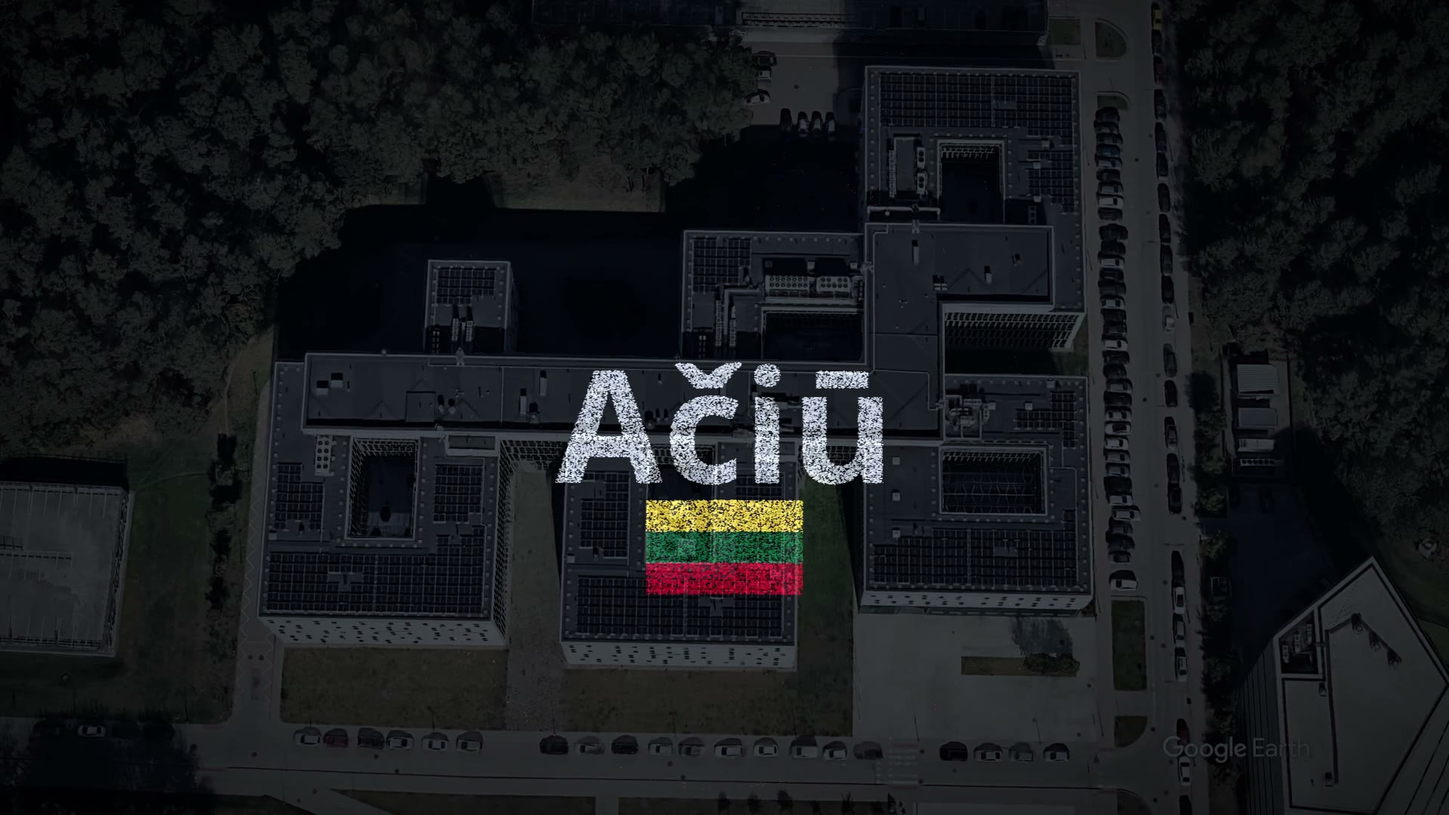
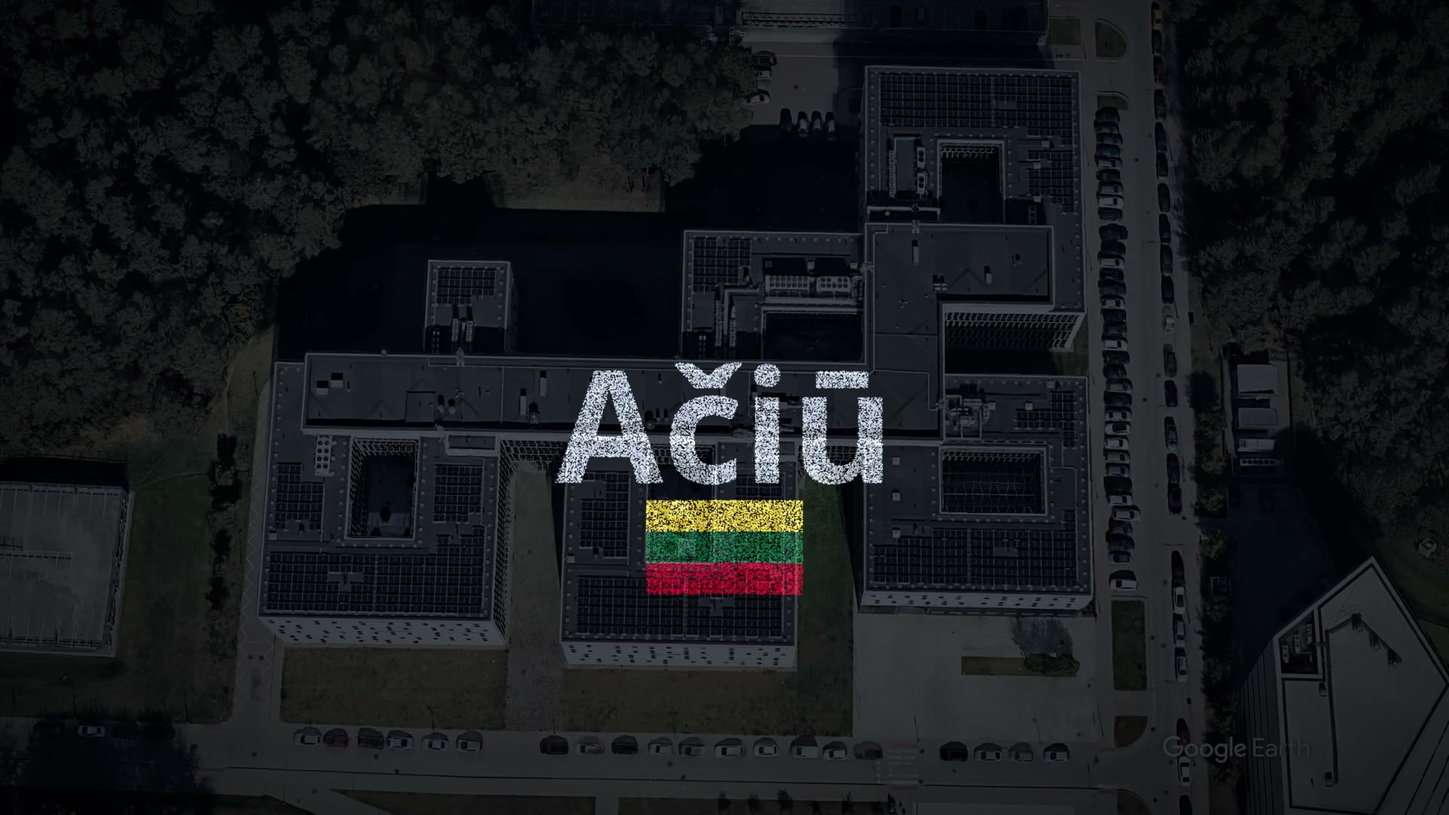
feat(innoday): the flight home: the close re-recorded at 4K (finer grains), the map away into the Earth, down into Vilnius on the opener's own flight backwards, „Ačiū“ over NFTMC on Starfire's peak (95.5 s)
Owner, 22 Oct: "shouldn't there be world zooming out and so on to Vilnius? Also, for the video
could we get better resolved sharper pointcloud?". Not deployed: waits for the owner's yes.

Claude-Session: https://claude.ai/code/session_01LomYF1saeBXf9UwwiHvwyK

Changed region(s): [[0.375, 0.4278, 0.625, 0.7333]]

diff --git a/talks/2026_10_23_Innoday/hero/bookend.py b/talks/2026_10_23_Innoday/hero/bookend.py
@@ -1,13 +1,24 @@
-"""The close's bookend: the recorded close (take) up to the ring, then a dissolve into NFTMC
-from above (the opener's first frame, graded to the deck's black ground) with the take's
-„Ačiū“ collision lifted off the map (frame minus the still ring) and added over it.
+"""The close's flight home (slide 30, close_home.mp4): the recorded close up to the
+accelerator map, then out to the whole Earth and down into Vilnius (the opener's own
+flight, nftmc_zoom_web.mp4, run backwards), landing on NFTMC from above, where the take's
+„Ačiū“ collision, lifted off the map, crosses on Starfire's peak.
 
-  python talks/2026_10_23_Innoday/hero/bookend.py TAKE BG OUT [--stills DIR --at t1,t2,...]
+  python talks/2026_10_23_Innoday/hero/bookend.py TAKE OPENER OUT [--stills DIR --at t1,t2,...]
 
-TAKE: the slide-30 take (slidev-stage-record, 1080p50, the live close at 22efcef); BG: the first
-frame of public/videos/nftmc_zoom_web.mp4 (ffmpeg -i … -frames:v 1 nftmc0.png). Owner, 22 Oct,
+TAKE: the slide-30 take of the live close at 22efcef (slidev-stage-record, 50 fps; recorded at
+3840×2160 and taken down to 1920×1080 here, so the grains are finer, owner: "could we get
+better resolved sharper pointcloud?"). OPENER: public/videos/nftmc_zoom_web.mp4. Owner, 22 Oct,
 on the Scheduler's proposal (the title promises „…ir atgal“; the close ended on the LHC ring):
-"Go ahead and do it".
+"Go ahead and do it"; on the first cut (a fade): "shouldn't there be world zooming out and so
+on to Vilnius?".
+
+Times (s of the clip; the music is the slide's <Soundtrack>, its `drop` on V_HIT):
+  0-57      the take: the module, LHCb at eye level, the pull-out to the LHC and the FCC
+  57.4-64   the map flies away to a point (Geneva) as the whole Earth comes up round it
+  64-92.2   down into Vilnius: the opener's first EARTH_T s backwards, landing on NFTMC; the
+            picture settles to the deck's dark ground over the last seconds
+  92.2-107  the take's „Ačiū“ collision over Vilnius (its bunches from 92.2, the crossing on
+            V_HIT, Starfire's 2:54.85 downbeat), the word and the flag, held
 """
 import argparse, subprocess, sys
 import numpy as np
@@ -15,101 +26,191 @@ from PIL import Image
 from scipy.ndimage import maximum_filter, gaussian_filter
 
 W, H, FPS = 1920, 1080, 50
-T_PLATE = 57.6          # the ring, still, before the word's collision (camera stops ~57.0)
-T_D0, T_D1 = 57.4, 59.2  # the dissolve ring -> Vilnius
-KNEE = 4.0              # the layer's noise floor (8-bit levels, per channel)
+T_STILL = (56.95, 57.95)   # the take: the camera stands still over the map
+T_CROSS = 61.2             # the take: the word's collision crosses
+V_HIT = 95.5               # the clip: the crossing, on Starfire's peak (the music's 2:54.85, the slide's tail file 0.35 s ahead of the clip)
+SHIFT = V_HIT - T_CROSS    # the take's word, later in the clip
+V_OUT0, V_OUT1 = 57.4, 64.0   # the map away, the Earth up
+V_LAND = V_HIT - (T_CROSS - T_STILL[1])   # NFTMC reached as the word's bunches come in
+KNEE = 4.0
 
 ap = argparse.ArgumentParser()
-ap.add_argument('take'); ap.add_argument('bg'); ap.add_argument('out')
+ap.add_argument('take'); ap.add_argument('opener'); ap.add_argument('out')
+ap.add_argument('--dive-span', type=float, default=56.0)   # the dive file: the opener's first this many s, backwards
+ap.add_argument('--dive', required=True)   # the opener's first EARTH_T s backwards, 60 fps (dive.sh: 4 s pieces through ffmpeg's reverse)
 ap.add_argument('--stills', default=''); ap.add_argument('--at', default='')
-ap.add_argument('--gain', type=float, default=0.30)   # the photo's exposure
+ap.add_argument('--earth-t', type=float, default=47.0)   # the opener: the Earth's lit limb filling the frame's left (from ~56 s a red galaxy band crosses it; the whole disk, ~64 s, is a dark crescent)
+ap.add_argument('--geneva', default='0.22,0.52')   # where the map goes down in that frame (shares of width, height): the lit side's middle (no coastline reads there)
+ap.add_argument('--gain', type=float, default=0.30)
 ap.add_argument('--sat', type=float, default=0.55)
 x = ap.parse_args()
+EARTH_T = x.earth_t
+GX, GY = (float(v) for v in x.geneva.split(','))
 
 
-def frames(t0, t1=None):
-    args = ['ffmpeg', '-v', 'error', '-ss', f'{t0:.3f}', '-i', x.take]
+def reader(path, t0, t1=None, fps=None):
+    args = ['ffmpeg', '-v', 'error', '-ss', f'{t0:.3f}', '-i', path]
     if t1 is not None: args += ['-t', f'{t1 - t0:.3f}']
-    args += ['-f', 'rawvideo', '-pix_fmt', 'rgb24', '-']
-    p = subprocess.Popen(args, stdout=subprocess.PIPE, bufsize=W * H * 3 * 4)
+    vf = [f'scale={W}:{H}:flags=lanczos'] + ([f'fps={fps}'] if fps else [])
+    args += ['-vf', ','.join(vf), '-f', 'rawvideo', '-pix_fmt', 'rgb24', '-']
+    p = subprocess.Popen(args, stdout=subprocess.PIPE, stderr=subprocess.DEVNULL, bufsize=W * H * 3 * 4)
     n = W * H * 3
-    while True:
-        b = p.stdout.read(n)
-        if len(b) < n: break
-        yield np.frombuffer(b, np.uint8).reshape(H, W, 3)
-    p.wait()
+    try:
+        while True:
+            b = p.stdout.read(n)
+            if len(b) < n: break
+            yield np.frombuffer(b, np.uint8).reshape(H, W, 3)
+    finally:
+        p.kill()
 
 
-def one(t):
-    return next(frames(t)).astype(np.float32)
-
-
-# the graded photo: darker, less colour, a cool cast, a vignette toward the deck's black
-bg = np.asarray(Image.open(x.bg).convert('RGB').resize((W, H), Image.LANCZOS)).astype(np.float32) / 255
-lum = bg @ np.array([0.2126, 0.7152, 0.0722], np.float32)
-bg = lum[..., None] + (bg - lum[..., None]) * x.sat
-bg = bg ** 1.25 * x.gain * np.array([0.92, 0.98, 1.08], np.float32)
-yy, xx = np.mgrid[0:H, 0:W].astype(np.float32)
-r = np.hypot((xx - W / 2) / (W / 2), (yy - H / 2) / (H / 2))
-bg *= (1 - 0.55 * np.clip((r - 0.45) / 0.9, 0, 1) ** 1.6)[..., None]
-bg = bg * 255
-
-# the ring, still, without what moves over it (the beams, the word's bunches arriving): each
-# pixel's least over the second the camera stands still
-plate = None
-for f in frames(56.95, 57.95):
-    plate = f.astype(np.float32) if plate is None else np.minimum(plate, f)
-# the beams round the LHC ring (the top of the frame, x 700-985, y 20-335: never where the word
-# and the flag form, y 476 on): masked, wherever they ran in the still second or the hold
-def spread(t0, t1):
-    lo = hi = None
-    for f in frames(t0, t1):
-        g = f.astype(np.int16).sum(2)
-        lo = g if lo is None else np.minimum(lo, g); hi = g if hi is None else np.maximum(hi, g)
-    return hi - lo
-# what the map's own animation adds over the still in that second (the dashed rings' flow,
-# twinkles), a little spread: taken off the layer too, so no dash of the old map survives
-floor = None
-for f in frames(56.95, 57.95):
-    r = f.astype(np.float32) - plate
-    floor = r if floor is None else np.maximum(floor, r)
-floor = maximum_filter(floor, size=(3, 3, 1)) * 1.5
-box = np.zeros((H, W), bool); box[10:345, 680:995] = True
-moving = (np.maximum(spread(56.9, 57.95), spread(69.6, 72.9)) > 36) & box
-mask = maximum_filter(moving, size=11)
-keep = 1 - gaussian_filter(mask.astype(np.float32), 2.0)
-print(f'masked {mask.mean() * 100:.2f} % of the frame', file=sys.stderr)
+def one(path, t):
+    return next(reader(path, t)).astype(np.float32)
 
 
 def smooth(a, b, t):
     s = np.clip((t - a) / (b - a), 0, 1); return s * s * (3 - 2 * s)
 
 
-def compose(f, t):
-    f = f.astype(np.float32)
-    if t < T_D0: return f
-    layer = np.clip(f - plate - floor - KNEE, 0, None) * keep[..., None]
-    a = smooth(T_D0, T_D1, t)
-    out = (1 - a) * f + a * (bg + layer)
-    return out
+# the deck's dark ground: the photo darker, less colour, a cool cast, a vignette
+yy, xx = np.mgrid[0:H, 0:W].astype(np.float32)
+# the map's edges feathered, so it shrinks away without a frame round it
+feather = (smooth(0.0, 0.14, np.minimum(xx / W, 1 - xx / W)) * smooth(0.0, 0.14, np.minimum(yy / H, 1 - yy / H)))[..., None]
+vign = (1 - 0.55 * np.clip((np.hypot((xx - W / 2) / (W / 2), (yy - H / 2) / (H / 2)) - 0.45) / 0.9, 0, 1) ** 1.6)[..., None]
+def grade(img, k):
+    if k <= 0: return img
+    f = img / 255
+    lum = f @ np.array([0.2126, 0.7152, 0.0722], np.float32)
+    g = lum[..., None] + (f - lum[..., None]) * x.sat
+    g = g ** 1.25 * x.gain * np.array([0.92, 0.98, 1.08], np.float32) * vign
+    return (1 - k) * img + k * g * 255
 
+
+# the map, still, without what moves over it: each pixel's least over the still second
+plate = None
+for f in reader(x.take, *T_STILL):
+    plate = f.astype(np.float32) if plate is None else np.minimum(plate, f)
+floor = None
+for f in reader(x.take, *T_STILL):
+    r = f.astype(np.float32) - plate
+    floor = r if floor is None else np.maximum(floor, r)
+floor = maximum_filter(floor, size=(3, 3, 1)) * 1.5
+# … except where the word's two bunches already flicker in that second (the frame's middle): a
+# floor there wiped them, two black holes in the glow over the campus
+floor[420:760, 760:1180] = np.minimum(floor[420:760, 760:1180], 12.0)
+def spread(t0, t1):
+    lo = hi = None
+    for f in reader(x.take, t0, t1):
+        g = f.astype(np.int16).sum(2)
+        lo = g if lo is None else np.minimum(lo, g); hi = g if hi is None else np.maximum(hi, g)
+    return hi - lo
+box = np.zeros((H, W), bool); box[10:345, 680:995] = True   # the LHC's beams (never where the word forms)
+mask = maximum_filter((np.maximum(spread(56.9, 57.95), spread(69.6, 72.9)) > 36) & box, size=11)
+keep = (1 - gaussian_filter(mask.astype(np.float32), 2.0))[..., None]
+
+
+def layer_of(f, t=None):
+    L = np.clip(f - plate - floor - KNEE, 0, None) * keep
+    return L
+
+
+def zoomed(img, s, cx, cy):
+    """img scaled by s about (cx, cy) (shares of the frame), that point kept in place; black outside."""
+    im = Image.fromarray(np.clip(img, 0, 255).astype(np.uint8))
+    w, h = max(1, int(round(W * s))), max(1, int(round(H * s)))
+    small = im.resize((w, h), Image.LANCZOS if s < 1 else Image.BICUBIC)
+    out = Image.new('RGB', (W, H))
+    out.paste(small, (int(round(cx * W - cx * w)), int(round(cy * H - cy * h))))
+    return np.asarray(out).astype(np.float32)
+
+
+earth = one(x.opener, EARTH_T)
+nftmc = one(x.opener, 0.0)
+# the dive: read forward through the reversed opener, frame by frame as the clip needs them
+class Dive:
+    def __init__(self): self.it, self.k, self.f = None, -1, None
+    def at(self, r):
+        want = max(0, int(round(r * 60)))
+        if x.stills: return one(x.dive, want / 60)
+        if self.it is None or want < self.k: self.it, self.k = reader(x.dive, 0), -1
+        while self.k < want:
+            nxt = next(self.it, None)
+            if nxt is None: break
+            self.f, self.k = nxt, self.k + 1
+        return self.f.astype(np.float32)
+dive = Dive()
+
+
+def dive_t(V):
+    u = np.clip((V - V_OUT1) / (V_LAND - V_OUT1), 0, 1)
+    # leave the Earth gently, run, and slow into the campus (the opener eases out of it too)
+    e = u * u * (3 - 2 * u) * 0.35 + u * 0.65
+    return EARTH_T * (1 - e)
+
+
+def compose(V, take_frame):
+    if V < V_OUT0:
+        return take_frame
+    if V < V_OUT1:
+        # the map (its word taken out) flies away into Geneva as the Earth comes up round it
+        f = take_frame
+        m = f - layer_of(f) if take_frame is not None else plate
+        a = smooth(V_OUT0, V_OUT1, V)
+        s_map = np.exp(np.log(0.02) * a)          # 1 -> 1/50, in log distance
+        s_earth = np.exp(np.log(6.0) * (1 - a))   # 6x -> 1, about Geneva
+        mp = zoomed(m * feather, s_map, GX, GY)
+        ea = zoomed(earth, s_earth, GX, GY)
+        fade = smooth(0.0, 0.55, a)
+        return mp * (1 - fade) + ea * fade
+    if V < V_LAND:
+        img = dive.at(x.dive_span - dive_t(V))
+        return grade(img, smooth(V_LAND - 5.0, V_LAND, V))
+    # landed: NFTMC, dark, and the take's word over it
+    base = grade(nftmc, 1.0)
+    t = V - SHIFT
+    if t > 73 - 1 / FPS: t = 73 - 1 / FPS
+    return base + layer_of(take_at(t), t)
+
+
+class Seq:
+    """a video read forward, frame by frame, at FPS"""
+    def __init__(self, path): self.path, self.it, self.k, self.f = path, None, -1, None
+    def at(self, t):
+        want = int(round(t * FPS))
+        if x.stills: return one(self.path, want / FPS)
+        if self.it is None or want < self.k: self.it, self.k = reader(self.path, want / FPS), want - 1
+        while self.k < want:
+            nxt = next(self.it, None)
+            if nxt is None: break
+            self.f, self.k = nxt, self.k + 1
+        return self.f.astype(np.float32)
+word_take = Seq(x.take)
+take_at = word_take.at
+
+
+V_END = 73 - 1 / FPS + SHIFT + 3.0   # the word held 3 s past the take's end
 
 if x.stills:
     import os
     os.makedirs(x.stills, exist_ok=True)
     for s in x.at.split(','):
-        t = float(s)
-        Image.fromarray(np.clip(compose(one(t), t), 0, 255).astype(np.uint8)).save(f'{x.stills}/t{t:05.2f}.png')
-    Image.fromarray(np.clip(bg, 0, 255).astype(np.uint8)).save(f'{x.stills}/bg.png')
-    Image.fromarray((mask * 255).astype(np.uint8)).save(f'{x.stills}/mask.png')
+        V = float(s)
+        tf = take_at(V) if V < 73 else None
+        Image.fromarray(np.clip(compose(V, tf), 0, 255).astype(np.uint8)).save(f'{x.stills}/v{V:06.2f}.png')
     sys.exit(0)
 
 enc = subprocess.Popen(['ffmpeg', '-v', 'error', '-y', '-f', 'rawvideo', '-pix_fmt', 'rgb24', '-s', f'{W}x{H}', '-r', str(FPS), '-i', '-',
                         '-c:v', 'libx264', '-preset', 'slow', '-crf', '17', '-maxrate', '10M', '-bufsize', '20M', '-g', '50',
                         '-pix_fmt', 'yuv420p', '-colorspace', 'bt709', '-color_primaries', 'bt709', '-color_trc', 'bt709',
                         '-movflags', '+faststart', '-an', x.out], stdin=subprocess.PIPE)
-for i, f in enumerate(frames(0)):
-    t = i / FPS
-    enc.stdin.write(np.clip(compose(f, t), 0, 255).astype(np.uint8).tobytes() if t >= T_D0 else f.tobytes())
+take = reader(x.take, 0)
+n = int(round(V_END * FPS))
+for i in range(n):
+    V = i / FPS
+    tf = next(take, None) if V < 73 else None
+    if tf is not None and V < V_OUT0:
+        enc.stdin.write(tf.tobytes()); continue
+    out = compose(V, tf.astype(np.float32) if tf is not None else None)
+    enc.stdin.write(np.clip(out, 0, 255).astype(np.uint8).tobytes())
 enc.stdin.close(); enc.wait()
-print('frames', i + 1, file=sys.stderr)
+print('frames', n, file=sys.stderr)

diff --git a/talks/2026_10_23_Innoday/deck.md b/talks/2026_10_23_Innoday/deck.md
@@ -696,12 +696,12 @@ space: { at: [9.54, -482.702, 0.96], dist: 2.236, yaw: -90.0, pitch: -29.74, dim
      world went on drawing under the whole recording (owner, 22 Oct: "MacPro M2 can't quite handle the final slide") -->
 <VideoPlayer src="close_home.mp4" muted :controls="false" transition="fade" />
 <Grains :set="{ det: 0, lhcbLogo: 0, ltMap: 0 }" />
-<Soundtrack :level="0.3" resync keys :drop="{ at: 61.2, file: 'audio/starfire_close_peak.m4a', hit: 2.013, duck: 58.4, quiet: 0.06 }" />
+<Soundtrack :level="0.3" resync keys :drop="{ at: 95.5, file: 'audio/starfire_close_peak.m4a', hit: 2.013, duck: 92.7, quiet: 0.06 }" />
 
 <!-- facts: lhcb-detector-size, lhcb-hlt1-30mhz, lhcb-trigger-5tbs-10gbs, cern-lhc-size-cost, cern-fcc-study -->
 
 <!--
-Kalbėtojui. Ši skaidrė dabar — įrašas (close_home.mp4, 1080p50; savininkas, 2026 10 22: kad nestrigtų), muzika lieka gyva, + ir − keičia jos garsumą; klavišas P sustabdo ir vėl paleidžia įrašą. Klipo paskutinis kadras (vėliava ant apatinės šaltosios dėžės, SciFi apačioje) virsta grūdeliais, ir kamera atsitraukia iš modulio galo į visą LHCb detektorių — taškų debesį pagal tikrąją geometriją (savininkas, 2026 10 21: „let's get back to point cloud“); išgraviruota vėliava kartu su modulio vaizdu, kuriame ji yra, lieka ten, kur LHCb sekiklyje iš tikrųjų stovi tas SciFi modulis (apatinė šaltoji dėžė), modulio padėtimi, ir kamerai tolstant mažėja iki tikrojo detektoriaus mastelio (~15 s), kol tampa mažyčiu ženklu; iš šono ji matoma kampu (savininkas, 2026 10 21: „the inscribed flag (on one of the SciFi mats) along with the mat itself moves to a position where scifi is. and reduces in size accordingly (because it's far away)“). Kamera nusileidžia iki kalbėtojo akių aukščio (1,71 m) ir žiūri į detektorių iš šono: LHCb užpildo kadrą nuo krašto iki krašto, visi 21 m (savininkas, 2026 10 22: „first zoom out untill you reach the eye level, so lhcb is full frame side to side“); arčiau kameros, dešinėje, stovi žmogus mastui (1,83 m, toks pat taškų debesis). Kamerai nusileidus, kartu su muzikos kulminacija (~18 s), susidūrimo taške susikerta tikro LHCb susidūrimo protonų paketai (savininkas: „LHCb collision within lhcb“): laikas beveik sustoja, tada susidūrime gimusios dalelės lekia per detektorių, ir kiekviena jo dalis sušvinta, kai jos ją pasiekia. Paskui kamera lėtai traukiasi atgal, vis dar akių aukštyje (~18–36 s), o susidūrimai kartojasi vis dažniau, kol jų blyksniai susilieja ir detektorius ima švytėti tolygiai (savininkas, 2026 10 20: „40 million collisions a second“; 2026 10 22: „then slowly move out until the beams run at full speed, only then zoom out to lhc fcc“): ryšuliai LHCb susikerta 40 mln. kartų per sekundę, ir visas detektorius nuskaitomas kiekvieną kartą. Tada be sustojimo, lėtai (~36–57 kelio s, apie pusę minutės; savininkas, 2026 10 22: „The zoomout to FCC should be slow and continuous“) kamera traukiasi toliau ir kyla, kol žiūri tiesiai žemyn, šiaurė viršuje (savininkas, 2026 10 22, su CERN FCC žemėlapiu: „For the last one, can you use something like this?“): LHCb kartu su vėliava susitraukia į tašką, ir aplink jį išnyra žemėlapis tikrosiomis proporcijomis: LHC žiedas (26,7 km) su dviem priešpriešiais skriejančiais pluoštais (žydru ir baltu); SPS, PS ir pernešimo linijų nėra (savininkas, 2026 10 22: „the inner ring of the lhc doesn't make sense... don't show it“); oranžiniu punktyru — siūlomas FCC žiedas (90,7 km) per savo aštuonias antžemines vietas, Ženevos ežeras, Prancūzijos ir Šveicarijos siena, Rona, Jura ir Salève; logotipas pakyla į kadro viršų, o maža Lietuvos vėliava nuo SciFi vietos atkeliauja prie LHCb taško žemėlapyje, tiesiai po LHC žiedu, ir lieka ten iki galo (savininkas, 2026 10 22: „Still need lithuanian flag on 30“; 2026 10 21: „can show the accelerator as well, so this doesn't look isolated, it's a part of huge infrastructure“; „still want to see LHC, FCC, and 2 beams circulating“). Kamerai sustojus (~57 s), žemėlapis ištirpsta į NFTMC Saulėtekyje iš viršaus — tą patį vaizdą, kuriuo pranešimas prasidėjo („…ir atgal“; savininkas, 2026 10 22: „Go ahead and do it“). Muzika trumpam beveik nutyla, ir ties jos kulminacija (~61 s; „Starfire“ 2:54,85, išmatuota garso faile) virš Vilniaus susiduria protonų paketai, o iš susidūrimo išlėkusios dalelės vingiuotomis trajektorijomis sugula į „Ačiū“, po juo — į Lietuvos vėliavą (savininkas, 2026 10 22: „aciu should appear out of particle collision“; „Also Lithuanian flag should appear with aciu“). LHCb vieta LHC žiede (8-asis taškas) pažymėta šviesiu tašku. Pavadinimų ekrane nėra: žiedus įvardyti žodžiu, kol jie ekrane (~45–58 s) (viršuje kairėje mažesnis — LHC, didysis oranžinis punktyrinis — FCC; ežeras — į dešinę nuo LHC). LHCb ir kompleksas nupiešti skirtingu masteliu (LHCb ilgis 21 m): kompleksas rodo, kur LHCb stovi. Per klausimus lieka Vilnius su „Ačiū“ ir vėliava (paskutinis įrašo kadras). Muzika po minutės pati nutyla.
+Kalbėtojui. Ši skaidrė dabar — įrašas (close_home.mp4, 1080p50, ~1 min 50 s; savininkas, 2026 10 22: kad nestrigtų), muzika lieka gyva, + ir − keičia jos garsumą; klavišas P sustabdo ir vėl paleidžia įrašą. Klipo paskutinis kadras (vėliava ant apatinės šaltosios dėžės, SciFi apačioje) virsta grūdeliais, ir kamera atsitraukia iš modulio galo į visą LHCb detektorių — taškų debesį pagal tikrąją geometriją (savininkas, 2026 10 21: „let's get back to point cloud“); išgraviruota vėliava kartu su modulio vaizdu, kuriame ji yra, lieka ten, kur LHCb sekiklyje iš tikrųjų stovi tas SciFi modulis (apatinė šaltoji dėžė), modulio padėtimi, ir kamerai tolstant mažėja iki tikrojo detektoriaus mastelio (~15 s), kol tampa mažyčiu ženklu; iš šono ji matoma kampu (savininkas, 2026 10 21: „the inscribed flag (on one of the SciFi mats) along with the mat itself moves to a position where scifi is. and reduces in size accordingly (because it's far away)“). Kamera nusileidžia iki kalbėtojo akių aukščio (1,71 m) ir žiūri į detektorių iš šono: LHCb užpildo kadrą nuo krašto iki krašto, visi 21 m (savininkas, 2026 10 22: „first zoom out untill you reach the eye level, so lhcb is full frame side to side“); arčiau kameros, dešinėje, stovi žmogus mastui (1,83 m, toks pat taškų debesis). Kamerai nusileidus, kartu su muzikos kulminacija (~18 s), susidūrimo taške susikerta tikro LHCb susidūrimo protonų paketai (savininkas: „LHCb collision within lhcb“): laikas beveik sustoja, tada susidūrime gimusios dalelės lekia per detektorių, ir kiekviena jo dalis sušvinta, kai jos ją pasiekia. Paskui kamera lėtai traukiasi atgal, vis dar akių aukštyje (~18–36 s), o susidūrimai kartojasi vis dažniau, kol jų blyksniai susilieja ir detektorius ima švytėti tolygiai (savininkas, 2026 10 20: „40 million collisions a second“; 2026 10 22: „then slowly move out until the beams run at full speed, only then zoom out to lhc fcc“): ryšuliai LHCb susikerta 40 mln. kartų per sekundę, ir visas detektorius nuskaitomas kiekvieną kartą. Tada be sustojimo, lėtai (~36–57 kelio s, apie pusę minutės; savininkas, 2026 10 22: „The zoomout to FCC should be slow and continuous“) kamera traukiasi toliau ir kyla, kol žiūri tiesiai žemyn, šiaurė viršuje (savininkas, 2026 10 22, su CERN FCC žemėlapiu: „For the last one, can you use something like this?“): LHCb kartu su vėliava susitraukia į tašką, ir aplink jį išnyra žemėlapis tikrosiomis proporcijomis: LHC žiedas (26,7 km) su dviem priešpriešiais skriejančiais pluoštais (žydru ir baltu); SPS, PS ir pernešimo linijų nėra (savininkas, 2026 10 22: „the inner ring of the lhc doesn't make sense... don't show it“); oranžiniu punktyru — siūlomas FCC žiedas (90,7 km) per savo aštuonias antžemines vietas, Ženevos ežeras, Prancūzijos ir Šveicarijos siena, Rona, Jura ir Salève; logotipas pakyla į kadro viršų, o maža Lietuvos vėliava nuo SciFi vietos atkeliauja prie LHCb taško žemėlapyje, tiesiai po LHC žiedu, ir lieka ten iki galo (savininkas, 2026 10 22: „Still need lithuanian flag on 30“; 2026 10 21: „can show the accelerator as well, so this doesn't look isolated, it's a part of huge infrastructure“; „still want to see LHC, FCC, and 2 beams circulating“). Kamerai sustojus (~57 s), žemėlapis nuskrieja tolyn, ir aplink jį iškyla visa Žemė; tada kelionė namo — žemyn į Lietuvą ir Vilnių, tuo pačiu skrydžiu, kuriuo pranešimas prasidėjo, tik atgal, kol nusileidžiama ant NFTMC Saulėtekyje (~92 s; „…ir atgal“; savininkas, 2026 10 22: „Go ahead and do it“; „shouldn't there be world zooming out and so on to Vilnius?“). Skrydžio metu muzika rimsta, paskui vėl kyla; prieš pat „Ačiū“ ji trumpam beveik nutyla, ir ties jos kulminacija (~95,5 s; „Starfire“ 2:54,85, išmatuota garso faile) virš Vilniaus susiduria protonų paketai, o iš susidūrimo išlėkusios dalelės vingiuotomis trajektorijomis sugula į „Ačiū“, po juo — į Lietuvos vėliavą (savininkas, 2026 10 22: „aciu should appear out of particle collision“; „Also Lithuanian flag should appear with aciu“). LHCb vieta LHC žiede (8-asis taškas) pažymėta šviesiu tašku. Pavadinimų ekrane nėra: žiedus įvardyti žodžiu, kol jie ekrane (~45–58 s); per skrydį namo nekalbėti (viršuje kairėje mažesnis — LHC, didysis oranžinis punktyrinis — FCC; ežeras — į dešinę nuo LHC). LHCb ir kompleksas nupiešti skirtingu masteliu (LHCb ilgis 21 m): kompleksas rodo, kur LHCb stovi. Per klausimus lieka Vilnius su „Ačiū“ ir vėliava (paskutinis įrašo kadras). Muzika po minutės pati nutyla.
 Muzika čia tylesnė (0,3, kaip šviesos įvedimo skaidrėje; savininkas, 2026 10 22: „the last soundtrack 50% quieter“); garsumą galima keisti klavišais + ir − (skaidrėse be klipo jie keičia muziką ir gaudimą, su klipu — klipo garsumą; lygis trumpam parodomas tik pranešėjo lange, žiūrovai nieko nemato; savininkas, 2026 10 22: „invisible, but -+ to control“).
 Nuorodų ekrane nėra: licencijų reikalaujamos nuorodos — kitame puslapyje, kurio nerodyti (savininkas, 2026 10 19: „We don't need credits at the last slide“).
 Sakyti: „Žiniatinklis, jutiklinis ekranas ir spalvotos 3D rentgenogramos atsirado iš problemų, kurias fizikams iškėlė klausimas, iš ko sudarytas pasaulis. FCC iškels naujų problemų. Jei jūsų įmonė nori tiekti CERN, užsiregistruokite CERN tiekėjų portale ir parašykite Inovacijų agentūros specialistei, kuri rūpinasi įmonių bendradarbiavimu su CERN. Ačiū, laukiu klausimų.“

diff --git a/talks/2026_10_23_Innoday/CLAUDE.md b/talks/2026_10_23_Innoday/CLAUDE.md
@@ -400,17 +400,20 @@ v0.8.1 since 20 Oct and builds the zip local-first itself).
   complex drawn live. Toolkit: a cut clip should announce cover too (told the Scheduler).
 - **The bookend: „…ir atgal“ (22 Oct, night).** The owner, on the Scheduler's proposal (the
   title promises „…ir atgal“, the opener flies out from NFTMC, the close ended on the LHC
-  ring): "Go ahead and do it". Slide 30 plays close_home.mp4 (hero/bookend.py on the same
-  take): the ring, then from 57.4 s a dissolve into the opener's first frame (NFTMC from
-  above, graded to the black ground, the Google Earth logo kept), and the take's „Ačiū“
-  collision lifted off the map and laid over Vilnius, its crossing at 61.2 s. Starfire's peak,
-  measured in the file: the downbeat at 2:54.85 after the drum fill (the biggest onset of the
-  piece, +7 dB; the track's loudest stretch, 3:53–4:41, has no single hit). The `drop` on the
-  slide's <Soundtrack>: the music falls to 6 % from 58.4 s, a third file
-  (audio/starfire_close_peak.m4a, the track from 2:52.85) starts quiet and opens on the
-  downbeat, the clip's rate nudged to stay on it (headless: 2 ms off). The word gathers over
-  the next ~5 s, in the music's surge. close.mp4 (the 4744b0d close) stays on the release for
-  that deploy. The flight home (Earth, the dive to Vilnius) is for after the talk.
+  ring): "Go ahead and do it"; on the first cut (a fade from the ring to NFTMC): "shouldn't
+  there be world zooming out and so on to Vilnius? Also, for the video could we get better
+  resolved sharper pointcloud?". Slide 30 plays close_home.mp4 (~110 s; the manifest's notes,
+  hero/bookend.py): the take re-recorded at 3840×2160 and taken down to 1080p; at 57.4 s the map
+  flies away into the Earth, then the opener's first 56 s backwards down into Vilnius, landing
+  on NFTMC from above (~92 s); the take's „Ačiū“ collision lifted off the map crosses over
+  Vilnius at 95.5 s. Starfire's peak, measured in the file: the downbeat at 2:54.85 after the
+  drum fill (the piece's biggest onset, +7 dB); the music's quiet middle plays under the flight
+  and its drum build on the approach. The `drop` on the slide's <Soundtrack>: the music falls
+  to 6 % from 92.7 s, a third file (audio/starfire_close_peak.m4a, the track from 2:52.85)
+  starts quiet and opens on the downbeat, the clip's rate nudged to stay on it. close.mp4 (the
+  4744b0d close) stays on the release for that deploy. Limits: the opener's Earth is a CG limb
+  with no readable coastline, so the map goes down on its lit side, not on Geneva; the dive
+  passes the opener's Google Earth to CG change (~29 s of it).
 
 Dated detail in `HANDOFF.md`. The ones a later session must not undo:
 
